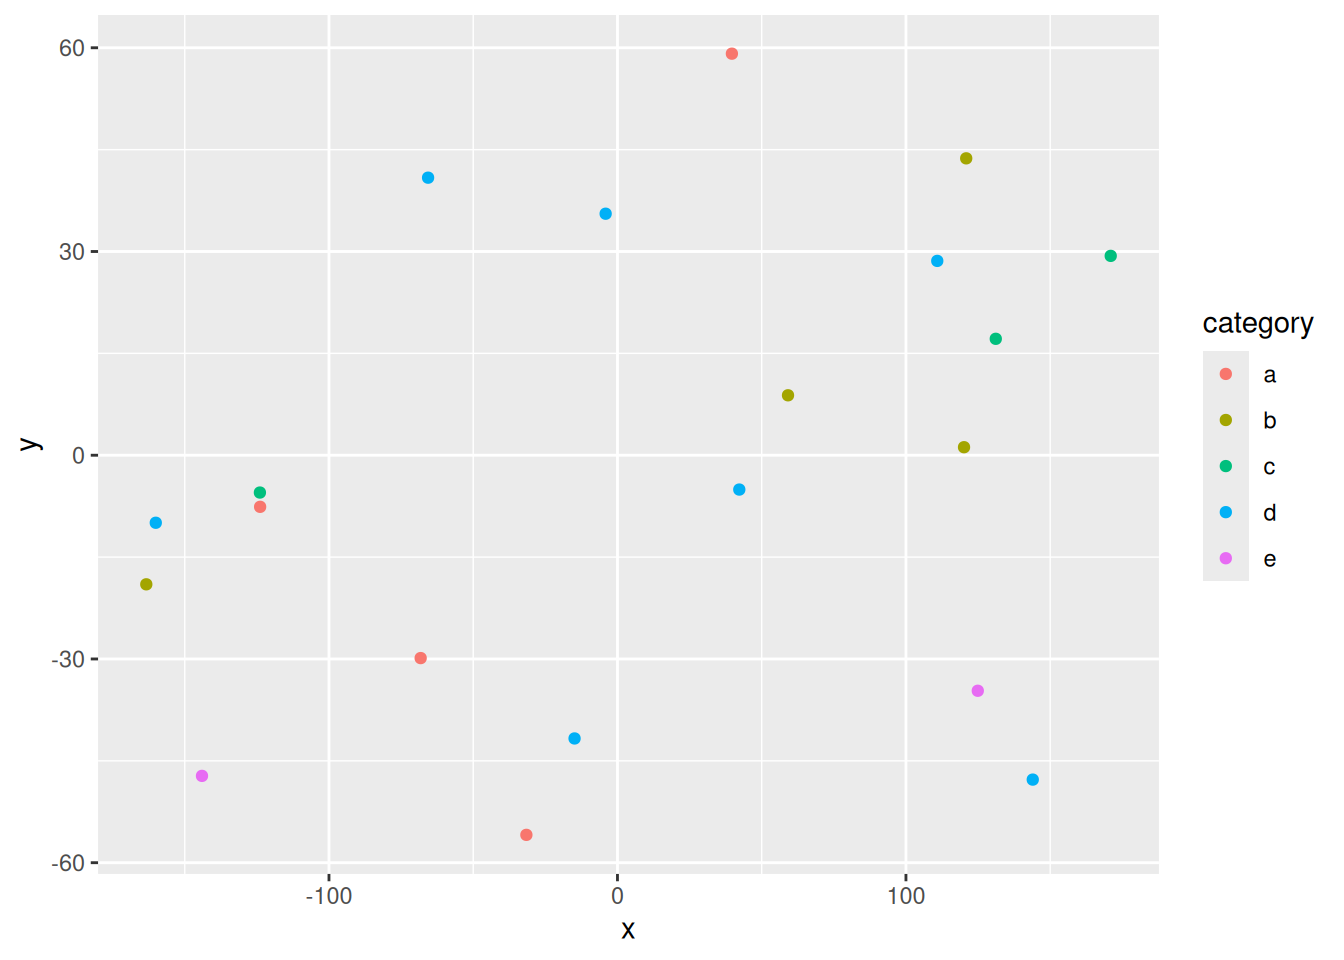
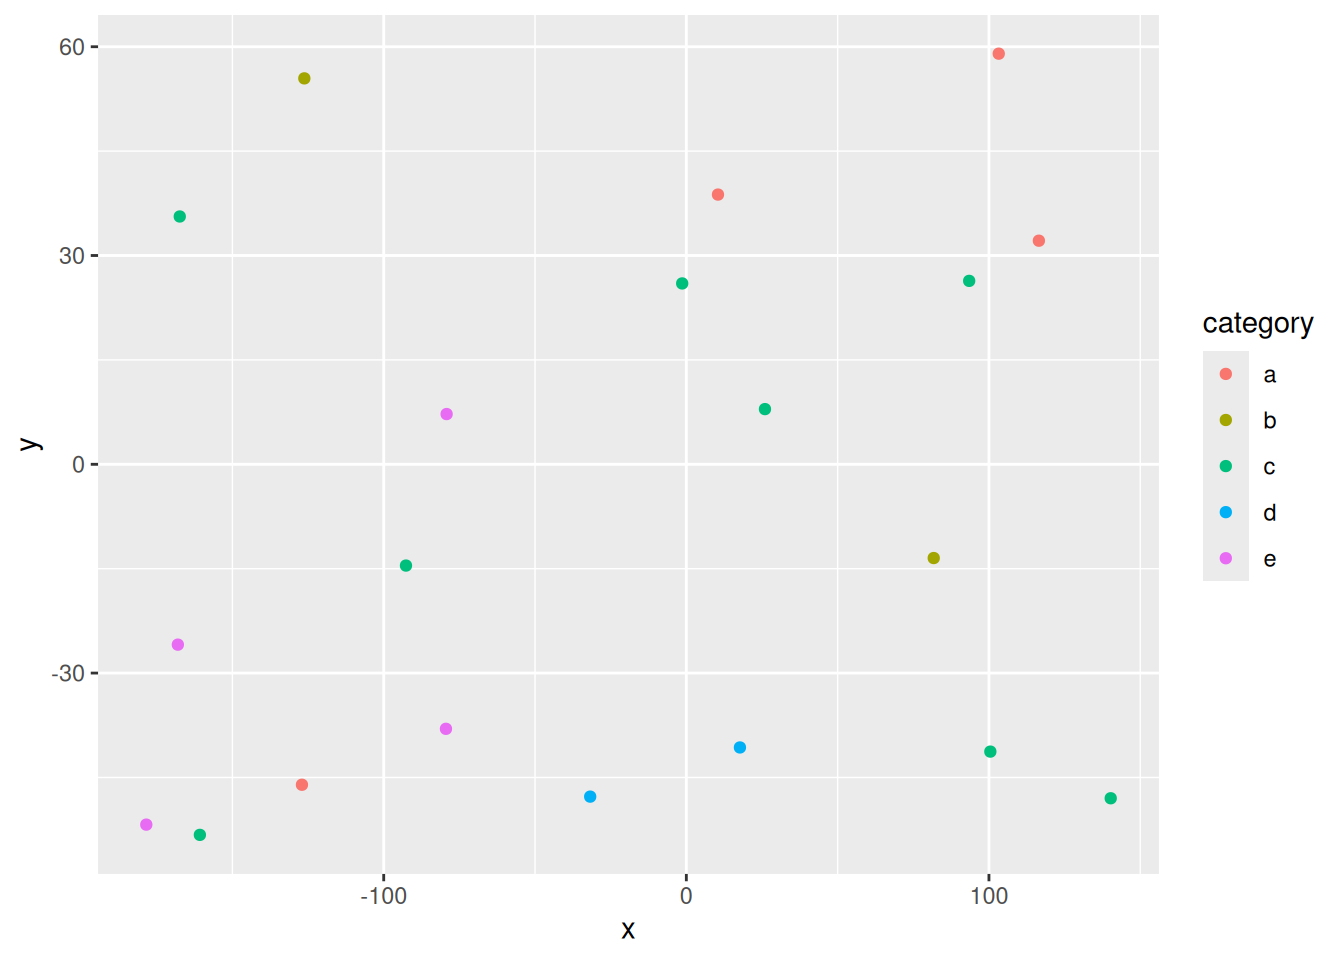
Built site for gh-pages

diff --git a/index.html b/index.html
@@ -6,10 +6,10 @@
 
 <meta name="viewport" content="width=device-width, initial-scale=1.0, user-scalable=yes">
 
-<meta name="author" content="Your name here">
-<meta name="dcterms.date" content="2026-11-12">
+<meta name="author" content="Michael Bargnesi">
+<meta name="dcterms.date" content="2026-11-13">
 
-<title>My Final Project Template – GEO511_FinalProject</title>
+<title>The Relationship between Car Ownership and Employment Rate in New York State – GEO511_FinalProject</title>
 <style>
 /* Default styles provided by pandoc.
 ** See https://pandoc.org/MANUAL.html#variables-for-html for config info.
@@ -176,8 +176,8 @@ pre > code.sourceCode > span > a:first-child::before { text-decoration: underlin
 
 <header id="title-block-header" class="quarto-title-block default">
 <div class="quarto-title">
-<h1 class="title">My Final Project Template</h1>
-<p class="subtitle lead">Subtitle here if desired</p>
+<h1 class="title">The Relationship between Car Ownership and Employment Rate in New York State</h1>
+<p class="subtitle lead">Data: Data.ny.gov</p>
 </div>
 
 
@@ -187,14 +187,14 @@ pre > code.sourceCode > span > a:first-child::before { text-decoration: underlin
     <div>
     <div class="quarto-title-meta-heading">Author</div>
     <div class="quarto-title-meta-contents">
-             <p>Your name here </p>
+             <p>Michael Bargnesi </p>
           </div>
   </div>
     
     <div>
     <div class="quarto-title-meta-heading">Published</div>
     <div class="quarto-title-meta-contents">
-      <p class="date">November 12, 2026</p>
+      <p class="date">November 13, 2026</p>
     </div>
   </div>
   
@@ -209,10 +209,9 @@ pre > code.sourceCode > span > a:first-child::before { text-decoration: underlin
 <section id="introduction" class="level1">
 <h1>Introduction</h1>
 <p>In the State of New York, car dependency has become an important fact within the work culture for many New Yorkers across the state. The question this project will look at is what is the relationship between car ownership and the employment rate in different parts of the state? Will we find places that have high car ownership also to have greater job opportunities and employment rate?</p>
-<p>If so, how can this research be used to help those who don’t own a car, still have access to job opportunities across the state? The potential answers to this question could also help explain how car ownership is crucial for working in the modern era today.&nbsp;</p>
-<p>The goal of this Project # Materials and methods</p>
-<p>[~ 200 words]</p>
-<p>Narrative: Clear narrative description of the data sources and methods. Includes data from at least two sources that were integrated / merged in R.</p>
+<p>If so, how can this research be used to help those who don’t own a car, still have access to job opportunities across the state? The potential answers to this question could also help explain how car ownership is crucial for working in the modern era today.</p>
+<p>The goal of this Project</p>
+<p>The data being used to with in this project can all be found within NY’s data. gov website</p>
 <p>Code: The code associated with the project is well organized and easy to follow. Demonstrates mastery of R graphics and functions.</p>
 <p>Data: The underlying data are publicly accessible via the web and downloaded/accessed within the Rmd script. If you want to use your own data, you must make it available on a website (e.g.&nbsp;Figshare) so that others are able to re-run your code.</p>
 <p>You can do bullets like this:</p>
@@ -227,7 +226,6 @@ pre > code.sourceCode > span > a:first-child::before { text-decoration: underlin
 <li>The second most important thing</li>
 <li>The third most important thing</li>
 </ol>
-<p>See <a href="http://rmarkdown.rstudio.com/" class="uri">http://rmarkdown.rstudio.com/</a> for all the amazing things you can do.</p>
 <p>Here’s my first code chunk.</p>
 <div class="cell">
 <div class="code-copy-outer-scaffold"><div class="sourceCode cell-code" id="cb1"><pre class="sourceCode r code-with-copy"><code class="sourceCode r"><span id="cb1-1"><a href="#cb1-1" aria-hidden="true" tabindex="-1"></a>x<span class="ot">=</span><span class="dv">3</span><span class="sc">+</span><span class="dv">4</span></span></code></pre></div><button title="Copy to Clipboard" class="code-copy-button"><i class="bi"></i></button></div>
@@ -273,84 +271,78 @@ pre > code.sourceCode > span > a:first-child::before { text-decoration: underlin
 </thead>
 <tbody>
 <tr class="odd">
-<td style="text-align: center;">-123.87</td>
-<td style="text-align: center;">-7.60</td>
-<td style="text-align: center;">8.51</td>
+<td style="text-align: center;">116.50</td>
+<td style="text-align: center;">32.13</td>
+<td style="text-align: center;">19.73</td>
 <td style="text-align: center;">a</td>
-<td style="text-align: center;">-0.20</td>
+<td style="text-align: center;">0.62</td>
 </tr>
 <tr class="even">
-<td style="text-align: center;">-123.95</td>
-<td style="text-align: center;">-5.49</td>
-<td style="text-align: center;">8.36</td>
+<td style="text-align: center;">93.47</td>
+<td style="text-align: center;">26.35</td>
+<td style="text-align: center;">13.74</td>
 <td style="text-align: center;">c</td>
-<td style="text-align: center;">0.58</td>
+<td style="text-align: center;">-1.30</td>
 </tr>
 <tr class="odd">
-<td style="text-align: center;">131.14</td>
-<td style="text-align: center;">17.14</td>
-<td style="text-align: center;">18.60</td>
+<td style="text-align: center;">-160.75</td>
+<td style="text-align: center;">-53.25</td>
+<td style="text-align: center;">15.15</td>
 <td style="text-align: center;">c</td>
-<td style="text-align: center;">-0.82</td>
+<td style="text-align: center;">-0.45</td>
 </tr>
 <tr class="even">
-<td style="text-align: center;">143.96</td>
-<td style="text-align: center;">-47.76</td>
-<td style="text-align: center;">6.09</td>
-<td style="text-align: center;">d</td>
-<td style="text-align: center;">-0.94</td>
+<td style="text-align: center;">140.24</td>
+<td style="text-align: center;">-47.99</td>
+<td style="text-align: center;">6.86</td>
+<td style="text-align: center;">c</td>
+<td style="text-align: center;">0.70</td>
 </tr>
 <tr class="odd">
-<td style="text-align: center;">170.98</td>
-<td style="text-align: center;">29.36</td>
-<td style="text-align: center;">8.70</td>
-<td style="text-align: center;">c</td>
-<td style="text-align: center;">-0.10</td>
+<td style="text-align: center;">103.24</td>
+<td style="text-align: center;">59.00</td>
+<td style="text-align: center;">10.55</td>
+<td style="text-align: center;">a</td>
+<td style="text-align: center;">-1.04</td>
 </tr>
 <tr class="even">
-<td style="text-align: center;">42.23</td>
-<td style="text-align: center;">-5.05</td>
-<td style="text-align: center;">15.84</td>
-<td style="text-align: center;">d</td>
-<td style="text-align: center;">0.43</td>
+<td style="text-align: center;">-79.21</td>
+<td style="text-align: center;">7.22</td>
+<td style="text-align: center;">10.19</td>
+<td style="text-align: center;">e</td>
+<td style="text-align: center;">-0.06</td>
 </tr>
 <tr class="odd">
-<td style="text-align: center;">-65.65</td>
-<td style="text-align: center;">40.87</td>
-<td style="text-align: center;">13.05</td>
-<td style="text-align: center;">d</td>
-<td style="text-align: center;">0.95</td>
+<td style="text-align: center;">-167.40</td>
+<td style="text-align: center;">35.61</td>
+<td style="text-align: center;">13.45</td>
+<td style="text-align: center;">c</td>
+<td style="text-align: center;">-0.50</td>
 </tr>
 <tr class="even">
-<td style="text-align: center;">59.12</td>
-<td style="text-align: center;">8.83</td>
-<td style="text-align: center;">8.92</td>
+<td style="text-align: center;">-79.43</td>
+<td style="text-align: center;">-38.01</td>
+<td style="text-align: center;">14.94</td>
+<td style="text-align: center;">e</td>
+<td style="text-align: center;">1.61</td>
+</tr>
+<tr class="odd">
+<td style="text-align: center;">100.46</td>
+<td style="text-align: center;">-41.29</td>
+<td style="text-align: center;">15.87</td>
+<td style="text-align: center;">c</td>
+<td style="text-align: center;">1.72</td>
+</tr>
+<tr class="even">
+<td style="text-align: center;">-126.23</td>
+<td style="text-align: center;">55.45</td>
+<td style="text-align: center;">16.34</td>
 <td style="text-align: center;">b</td>
-<td style="text-align: center;">0.58</td>
-</tr>
-<tr class="odd">
-<td style="text-align: center;">110.86</td>
-<td style="text-align: center;">28.62</td>
-<td style="text-align: center;">11.38</td>
-<td style="text-align: center;">d</td>
-<td style="text-align: center;">-0.58</td>
-</tr>
-<tr class="even">
-<td style="text-align: center;">120.13</td>
-<td style="text-align: center;">1.18</td>
-<td style="text-align: center;">16.20</td>
-<td style="text-align: center;">b</td>
-<td style="text-align: center;">-0.48</td>
+<td style="text-align: center;">0.26</td>
 </tr>
 </tbody>
 </table>
 </div>
-<p>Add any additional processing steps here.</p>
-</section>
-</section>
-<section id="results" class="level1">
-<h1>Results</h1>
-<p>[~200 words]</p>
 <p>Tables and figures (maps and other graphics) are carefully planned to convey the results of your analysis. Intense exploration and evidence of many trials and failures. The author looked at the data in many different ways before coming to the final presentation of the data.</p>
 <p>Show tables, plots, etc. and describe them.</p>
 <div class="cell">
@@ -360,8 +352,8 @@ pre > code.sourceCode > span > a:first-child::before { text-decoration: underlin
 <span id="cb5-4"><a href="#cb5-4" aria-hidden="true" tabindex="-1"></a>  <span class="fu">addPopups</span>(<span class="sc">~</span>x[<span class="dv">2</span>], <span class="sc">~</span>y[<span class="dv">2</span>], <span class="st">"Random popup"</span>)</span>
 <span id="cb5-5"><a href="#cb5-5" aria-hidden="true" tabindex="-1"></a>m  <span class="co"># a map with the default OSM tile layer</span></span></code></pre></div><button title="Copy to Clipboard" class="code-copy-button"><i class="bi"></i></button></div>
 <div class="cell-output-display">
-<div class="leaflet html-widget html-fill-item" id="htmlwidget-4e8ba5149aca2c97abaa" style="width:100%;height:325px;"></div>
-<script type="application/json" data-for="htmlwidget-4e8ba5149aca2c97abaa">{"x":{"options":{"crs":{"crsClass":"L.CRS.EPSG3857","code":null,"proj4def":null,"projectedBounds":null,"options":{}}},"calls":[{"method":"addTiles","args":["https://{s}.tile.openstreetmap.org/{z}/{x}/{y}.png",null,null,{"minZoom":0,"maxZoom":18,"tileSize":256,"subdomains":"abc","errorTileUrl":"","tms":false,"noWrap":false,"zoomOffset":0,"zoomReverse":false,"opacity":1,"zIndex":1,"detectRetina":false,"attribution":"&copy; <a href=\"https://openstreetmap.org/copyright/\">OpenStreetMap<\/a>,  <a href=\"https://opendatacommons.org/licenses/odbl/\">ODbL<\/a>"}]},{"method":"addCircleMarkers","args":[[-7.59670615196228,-5.492684198543429,17.14451316744089,-47.76376778259873,29.35714362189174,-5.053689368069172,40.87220066227019,8.826899919658899,28.61772246658802,1.182778486981988,-55.90148655697703,43.71880819089711,-47.21548249013722,-41.70411748811603,-29.86933683045208,35.56619293056428,-19.00774938985705,-9.942279467359185,-34.68209724873304,59.13308112882078],[-123.8686846476048,-123.945446619764,131.1390519887209,143.9579597767442,170.9814300946891,42.2299584466964,-65.6491800583899,59.11931681446731,110.855555087328,120.1322253327817,-31.57361931167543,120.8899831585586,-144.0216893982142,-14.87207969650626,-68.21969862096012,-4.095146767795086,-163.3273163437843,-160.0377634260803,124.9000199977309,39.66494495049119],[8.505109734833241,8.363907813327387,18.59606687678024,6.090927514014766,8.699016909813508,15.84223209996708,13.05086213746108,8.924699017079547,11.38041647383943,16.19657678063959,13.74104931019247,17.43036066764034,18.38450201437809,12.13282496901229,13.01562000997365,12.88038170780055,8.688327419804409,12.99040329526179,10.01147394068539,6.595159500138834],null,null,{"interactive":true,"className":"","stroke":true,"color":["a","c","c","d","c","d","d","b","d","b","a","b","e","d","a","d","b","d","e","a"],"weight":5,"opacity":0.5,"fill":true,"fillColor":["a","c","c","d","c","d","d","b","d","b","a","b","e","d","a","d","b","d","e","a"],"fillOpacity":0.2},null,null,null,null,null,{"interactive":false,"permanent":false,"direction":"auto","opacity":1,"offset":[0,0],"textsize":"10px","textOnly":false,"className":"","sticky":true},null]},{"method":"addPopups","args":[-5.492684198543429,-123.945446619764,"Random popup",null,null,{"maxWidth":300,"minWidth":50,"autoPan":true,"keepInView":false,"closeButton":true,"className":""}]}],"limits":{"lat":[-55.90148655697703,59.13308112882078],"lng":[-163.3273163437843,170.9814300946891]}},"evals":[],"jsHooks":[]}</script>
+<div class="leaflet html-widget html-fill-item" id="htmlwidget-683ac2577c31805d32c3" style="width:100%;height:325px;"></div>
+<script type="application/json" data-for="htmlwidget-683ac2577c31805d32c3">{"x":{"options":{"crs":{"crsClass":"L.CRS.EPSG3857","code":null,"proj4def":null,"projectedBounds":null,"options":{}}},"calls":[{"method":"addTiles","args":["https://{s}.tile.openstreetmap.org/{z}/{x}/{y}.png",null,null,{"minZoom":0,"maxZoom":18,"tileSize":256,"subdomains":"abc","errorTileUrl":"","tms":false,"noWrap":false,"zoomOffset":0,"zoomReverse":false,"opacity":1,"zIndex":1,"detectRetina":false,"attribution":"&copy; <a href=\"https://openstreetmap.org/copyright/\">OpenStreetMap<\/a>,  <a href=\"https://opendatacommons.org/licenses/odbl/\">ODbL<\/a>"}]},{"method":"addCircleMarkers","args":[[32.12739807553589,26.35465982370079,-53.24966906569898,-47.99018419347703,59.00203255936503,7.216523364186287,35.60588886961341,-38.01198514178395,-41.28577119670808,55.45243844389915,-13.47301938571036,7.928901594132185,-51.77833928726614,38.75527029857039,-46.0482544451952,-25.9160138759762,25.98661120980978,-47.75438248179853,-40.68940725177526,-14.55430272035301],[116.4983503706753,93.46519427374005,-160.751033378765,140.2394590247422,103.237314876169,-79.21336468309164,-167.3977635707706,-79.43335653282702,100.4604853224009,-126.2314768508077,81.75063458271325,25.98239519633353,-178.4573558159173,10.45671665109694,-127.0204347185791,-168.0267812311649,-1.36798501946032,-31.76869209855795,17.71070525050163,-92.64073594473302],[19.72979696351103,13.74161703046411,15.14668465126306,6.864563598064706,10.54511448717676,10.18998690880835,13.45008237869479,14.9356374097988,15.86569661623798,16.34241295512766,5.798999331891537,14.96101712808013,8.059905373957008,13.26259057619609,19.61837290553376,6.201533854473382,14.00708542671055,7.473971366416663,19.52484783600084,17.40608713706024],null,null,{"interactive":true,"className":"","stroke":true,"color":["a","c","c","c","a","e","c","e","c","b","b","c","e","a","a","e","c","d","d","c"],"weight":5,"opacity":0.5,"fill":true,"fillColor":["a","c","c","c","a","e","c","e","c","b","b","c","e","a","a","e","c","d","d","c"],"fillOpacity":0.2},null,null,null,null,null,{"interactive":false,"permanent":false,"direction":"auto","opacity":1,"offset":[0,0],"textsize":"10px","textOnly":false,"className":"","sticky":true},null]},{"method":"addPopups","args":[26.35465982370079,93.46519427374005,"Random popup",null,null,{"maxWidth":300,"minWidth":50,"autoPan":true,"keepInView":false,"closeButton":true,"className":""}]}],"limits":{"lat":[-53.24966906569898,59.00203255936503],"lng":[-178.4573558159173,140.2394590247422]}},"evals":[],"jsHooks":[]}</script>
 <p>Map of completely random data</p>
 </div>
 </div>
@@ -384,15 +376,15 @@ pre > code.sourceCode > span > a:first-child::before { text-decoration: underlin
 <span id="cb7-2"><a href="#cb7-2" aria-hidden="true" tabindex="-1"></a><span class="fu">dygraph</span>(nhtemp, <span class="at">main =</span> <span class="st">"New Haven Temperatures"</span>) <span class="sc">|&gt;</span> </span>
 <span id="cb7-3"><a href="#cb7-3" aria-hidden="true" tabindex="-1"></a>  <span class="fu">dyRangeSelector</span>(<span class="at">dateWindow =</span> <span class="fu">c</span>(<span class="st">"1920-01-01"</span>, <span class="st">"1960-01-01"</span>)) </span></code></pre></div><button title="Copy to Clipboard" class="code-copy-button"><i class="bi"></i></button></div>
 <div class="cell-output-display">
-<div class="dygraphs html-widget html-fill-item" id="htmlwidget-56a31575a8e63ae08d73" style="width:100%;height:464px;"></div>
-<script type="application/json" data-for="htmlwidget-56a31575a8e63ae08d73">{"x":{"attrs":{"title":"New Haven Temperatures","labels":["year","V1"],"legend":"auto","retainDateWindow":false,"axes":{"x":{"pixelsPerLabel":60}},"showRangeSelector":true,"dateWindow":["1920-01-01T00:00:00.000Z","1960-01-01T00:00:00.000Z"],"rangeSelectorHeight":40,"rangeSelectorPlotFillColor":" #A7B1C4","rangeSelectorPlotStrokeColor":"#808FAB","interactionModel":"Dygraph.Interaction.defaultModel"},"scale":"yearly","annotations":[],"shadings":[],"events":[],"format":"date","data":[["1912-01-01T00:00:00.000Z","1913-01-01T00:00:00.000Z","1914-01-01T00:00:00.000Z","1915-01-01T00:00:00.000Z","1916-01-01T00:00:00.000Z","1917-01-01T00:00:00.000Z","1918-01-01T00:00:00.000Z","1919-01-01T00:00:00.000Z","1920-01-01T00:00:00.000Z","1921-01-01T00:00:00.000Z","1922-01-01T00:00:00.000Z","1923-01-01T00:00:00.000Z","1924-01-01T00:00:00.000Z","1925-01-01T00:00:00.000Z","1926-01-01T00:00:00.000Z","1927-01-01T00:00:00.000Z","1928-01-01T00:00:00.000Z","1929-01-01T00:00:00.000Z","1930-01-01T00:00:00.000Z","1931-01-01T00:00:00.000Z","1932-01-01T00:00:00.000Z","1933-01-01T00:00:00.000Z","1934-01-01T00:00:00.000Z","1935-01-01T00:00:00.000Z","1936-01-01T00:00:00.000Z","1937-01-01T00:00:00.000Z","1938-01-01T00:00:00.000Z","1939-01-01T00:00:00.000Z","1940-01-01T00:00:00.000Z","1941-01-01T00:00:00.000Z","1942-01-01T00:00:00.000Z","1943-01-01T00:00:00.000Z","1944-01-01T00:00:00.000Z","1945-01-01T00:00:00.000Z","1946-01-01T00:00:00.000Z","1947-01-01T00:00:00.000Z","1948-01-01T00:00:00.000Z","1949-01-01T00:00:00.000Z","1950-01-01T00:00:00.000Z","1951-01-01T00:00:00.000Z","1952-01-01T00:00:00.000Z","1953-01-01T00:00:00.000Z","1954-01-01T00:00:00.000Z","1955-01-01T00:00:00.000Z","1956-01-01T00:00:00.000Z","1957-01-01T00:00:00.000Z","1958-01-01T00:00:00.000Z","1959-01-01T00:00:00.000Z","1960-01-01T00:00:00.000Z","1961-01-01T00:00:00.000Z","1962-01-01T00:00:00.000Z","1963-01-01T00:00:00.000Z","1964-01-01T00:00:00.000Z","1965-01-01T00:00:00.000Z","1966-01-01T00:00:00.000Z","1967-01-01T00:00:00.000Z","1968-01-01T00:00:00.000Z","1969-01-01T00:00:00.000Z","1970-01-01T00:00:00.000Z","1971-01-01T00:00:00.000Z"],[49.9,52.3,49.4,51.1,49.4,47.9,49.8,50.9,49.3,51.9,50.8,49.6,49.3,50.6,48.4,50.7,50.9,50.6,51.5,52.8,51.8,51.1,49.8,50.2,50.4,51.6,51.8,50.9,48.8,51.7,51,50.6,51.7,51.5,52.1,51.3,51,54,51.4,52.7,53.1,54.6,52,52,50.9,52.6,50.2,52.6,51.6,51.9,50.5,50.9,51.7,51.4,51.7,50.8,51.9,51.8,51.9,53]]},"evals":["attrs.interactionModel"],"jsHooks":[]}</script>
+<div class="dygraphs html-widget html-fill-item" id="htmlwidget-6d1b399aa94f147a6ad9" style="width:100%;height:464px;"></div>
+<script type="application/json" data-for="htmlwidget-6d1b399aa94f147a6ad9">{"x":{"attrs":{"title":"New Haven Temperatures","labels":["year","V1"],"legend":"auto","retainDateWindow":false,"axes":{"x":{"pixelsPerLabel":60}},"showRangeSelector":true,"dateWindow":["1920-01-01T00:00:00.000Z","1960-01-01T00:00:00.000Z"],"rangeSelectorHeight":40,"rangeSelectorPlotFillColor":" #A7B1C4","rangeSelectorPlotStrokeColor":"#808FAB","interactionModel":"Dygraph.Interaction.defaultModel"},"scale":"yearly","annotations":[],"shadings":[],"events":[],"format":"date","data":[["1912-01-01T00:00:00.000Z","1913-01-01T00:00:00.000Z","1914-01-01T00:00:00.000Z","1915-01-01T00:00:00.000Z","1916-01-01T00:00:00.000Z","1917-01-01T00:00:00.000Z","1918-01-01T00:00:00.000Z","1919-01-01T00:00:00.000Z","1920-01-01T00:00:00.000Z","1921-01-01T00:00:00.000Z","1922-01-01T00:00:00.000Z","1923-01-01T00:00:00.000Z","1924-01-01T00:00:00.000Z","1925-01-01T00:00:00.000Z","1926-01-01T00:00:00.000Z","1927-01-01T00:00:00.000Z","1928-01-01T00:00:00.000Z","1929-01-01T00:00:00.000Z","1930-01-01T00:00:00.000Z","1931-01-01T00:00:00.000Z","1932-01-01T00:00:00.000Z","1933-01-01T00:00:00.000Z","1934-01-01T00:00:00.000Z","1935-01-01T00:00:00.000Z","1936-01-01T00:00:00.000Z","1937-01-01T00:00:00.000Z","1938-01-01T00:00:00.000Z","1939-01-01T00:00:00.000Z","1940-01-01T00:00:00.000Z","1941-01-01T00:00:00.000Z","1942-01-01T00:00:00.000Z","1943-01-01T00:00:00.000Z","1944-01-01T00:00:00.000Z","1945-01-01T00:00:00.000Z","1946-01-01T00:00:00.000Z","1947-01-01T00:00:00.000Z","1948-01-01T00:00:00.000Z","1949-01-01T00:00:00.000Z","1950-01-01T00:00:00.000Z","1951-01-01T00:00:00.000Z","1952-01-01T00:00:00.000Z","1953-01-01T00:00:00.000Z","1954-01-01T00:00:00.000Z","1955-01-01T00:00:00.000Z","1956-01-01T00:00:00.000Z","1957-01-01T00:00:00.000Z","1958-01-01T00:00:00.000Z","1959-01-01T00:00:00.000Z","1960-01-01T00:00:00.000Z","1961-01-01T00:00:00.000Z","1962-01-01T00:00:00.000Z","1963-01-01T00:00:00.000Z","1964-01-01T00:00:00.000Z","1965-01-01T00:00:00.000Z","1966-01-01T00:00:00.000Z","1967-01-01T00:00:00.000Z","1968-01-01T00:00:00.000Z","1969-01-01T00:00:00.000Z","1970-01-01T00:00:00.000Z","1971-01-01T00:00:00.000Z"],[49.9,52.3,49.4,51.1,49.4,47.9,49.8,50.9,49.3,51.9,50.8,49.6,49.3,50.6,48.4,50.7,50.9,50.6,51.5,52.8,51.8,51.1,49.8,50.2,50.4,51.6,51.8,50.9,48.8,51.7,51,50.6,51.7,51.5,52.1,51.3,51,54,51.4,52.7,53.1,54.6,52,52,50.9,52.6,50.2,52.6,51.6,51.9,50.5,50.9,51.7,51.4,51.7,50.8,51.9,51.8,51.9,53]]},"evals":["attrs.interactionModel"],"jsHooks":[]}</script>
 </div>
 </div>
+</section>
 </section>
 </section>
 <section id="conclusions" class="level1">
 <h1>Conclusions</h1>
-<p>[~200 words]</p>
 <p>Clear summary adequately describing the results and putting them in context. Discussion of further questions and ways to continue investigation.</p>
 </section>
 <section id="references" class="level1">
